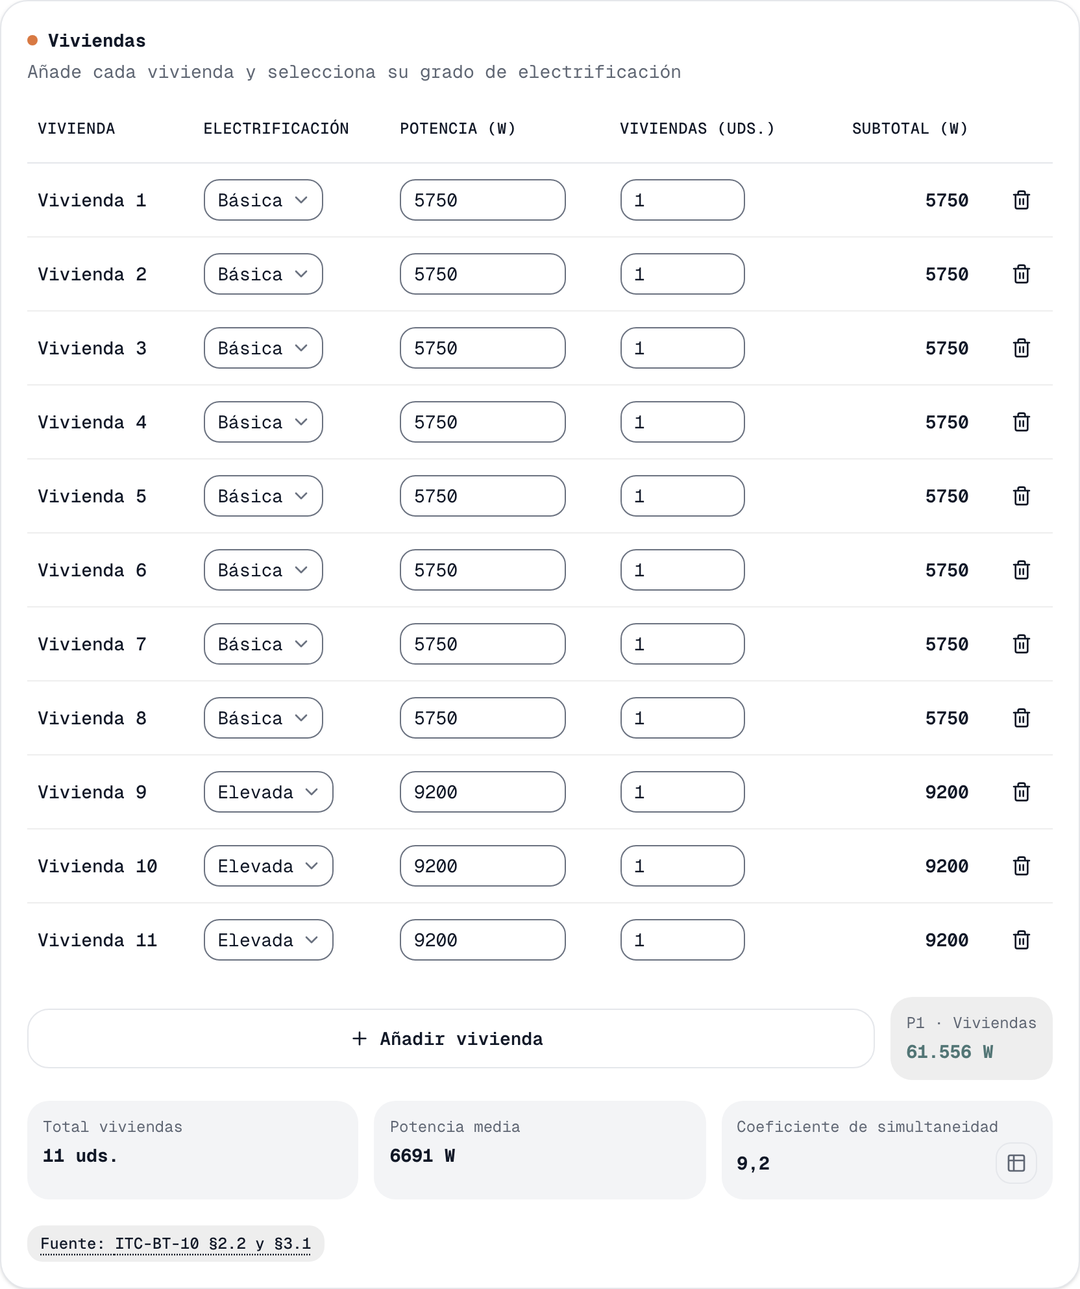
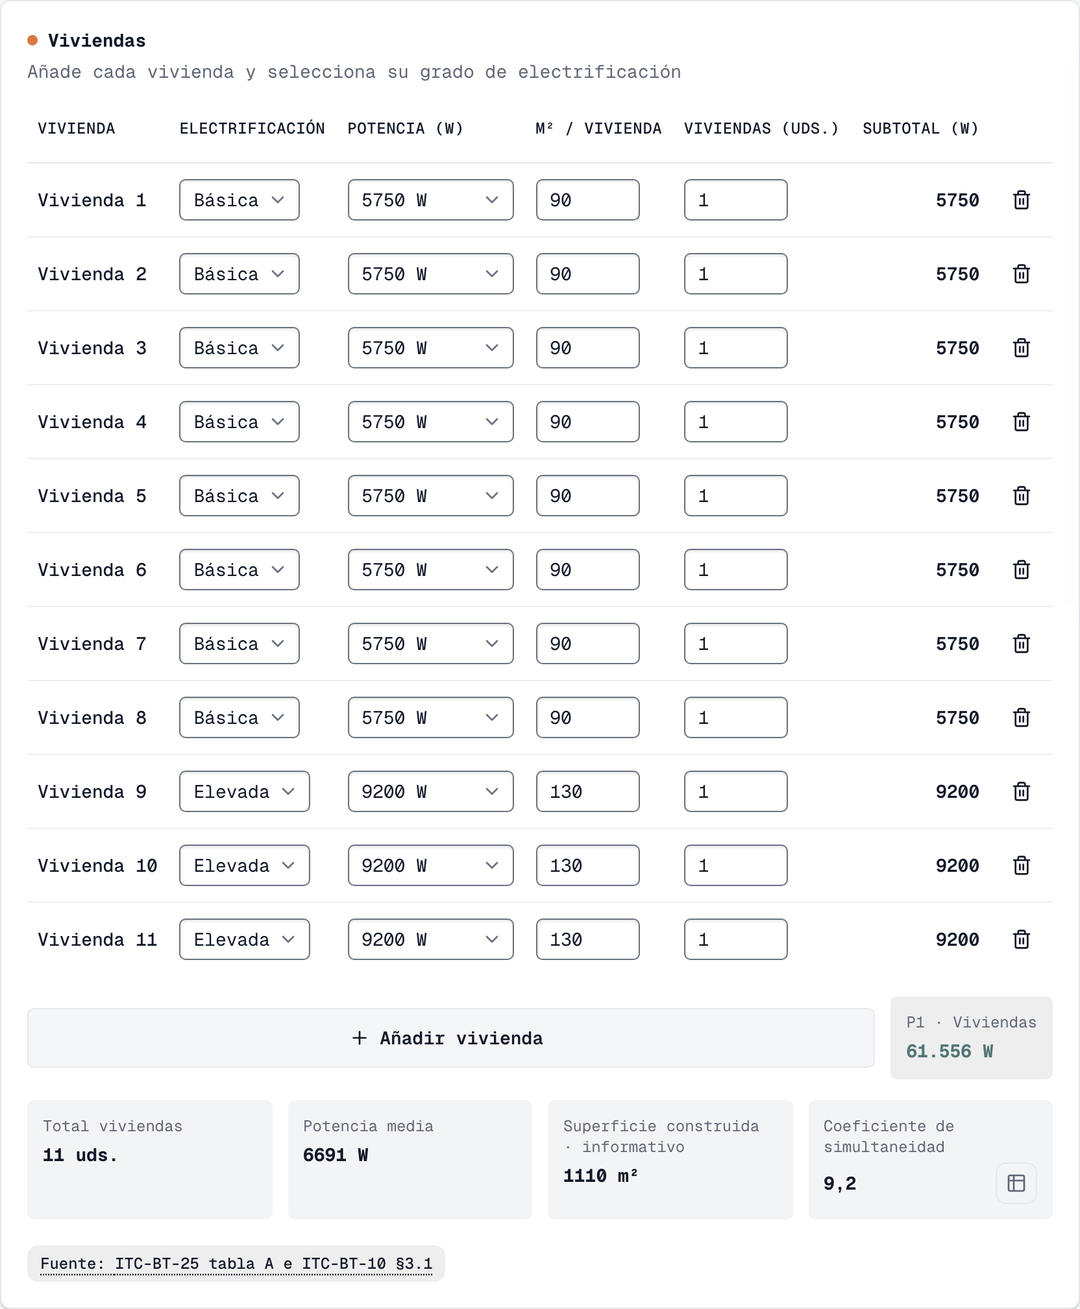
feat(cargas): superficie por vivienda informativa en P1
Cada fila de viviendas registra los m2 de una vivienda de ese tipo, un dato
que no entra en P1 (Pmedia x Cs) y que alimenta la tarjeta de superficie
construida, que multiplica por el numero de viviendas de la fila.

- Columna M2 / Vivienda en la tabla de escritorio y campo en la tarjeta movil.
- Columna Superficie (m2/viv.) en la seccion 1. Viviendas del PDF.
- El snapshot guardado normaliza una superficie ausente o invalida a 0 sin
  descartar el proyecto.
- Nota de fuente, paso didactico, ayuda (captura regenerada) y README.
- La tabla de viviendas ajusta anchos y min-width para seguir entrando con
  la columna nueva.

diff --git a/components/load-calculator.tsx b/components/load-calculator.tsx
@@ -45,7 +45,7 @@ type ProjectInfo = {
   logo: string
 }
 
-type HousingRow = { level: 'Básica' | 'Elevada'; power: number; homes: number }
+type HousingRow = { level: 'Básica' | 'Elevada'; power: number; homes: number; area: number }
 /** A select option: a plain string, or a value with its own printed label. */
 type ChoiceItem = string | { value: string; label: string }
 type LocalRow = { name: string; type: 'Comercial/oficina' | 'Industria'; area: number; real: number }
@@ -141,8 +141,8 @@ const exampleLighting: LightingRow[] = emptyLighting.map(row => (
 ))
 
 const initialHousing: HousingRow[] = [
-  ...Array.from({ length: 8 }, (): HousingRow => ({ level: 'Básica', power: 5750, homes: 1 })),
-  ...Array.from({ length: 3 }, (): HousingRow => ({ level: 'Elevada', power: 9200, homes: 1 })),
+  ...Array.from({ length: 8 }, (): HousingRow => ({ level: 'Básica', power: 5750, homes: 1, area: 90 })),
+  ...Array.from({ length: 3 }, (): HousingRow => ({ level: 'Elevada', power: 9200, homes: 1, area: 130 })),
 ]
 const exampleLocals: LocalRow[] = [
   { name: 'Local 1', type: 'Comercial/oficina', area: 50, real: 0 },
@@ -378,6 +378,8 @@ export function LoadCalculator() {
 
   // Recuento informativo: las plazas de los garajes no intervienen en P4.
   const garageParkingSpaces = garages.reduce((sum, row) => sum + Math.max(0, row.plazas || 0), 0)
+  // Superficie construida informativa: la superficie por vivienda no interviene en P1.
+  const dwellingArea = housing.reduce((sum, row) => sum + Math.max(0, row.area || 0) * Math.max(0, row.homes), 0)
 
   const loadExplanation = useMemo(
     () => explainLoadForecast({ housing, locals, garages, elevators, motors, otherLoads, lighting, parking, irveOption }, result, settings),
@@ -481,8 +483,8 @@ export function LoadCalculator() {
     sections: [
       {
         title: '1. Viviendas',
-        columns: ['Vivienda', 'Electrificación', 'Potencia (W)', 'Unidades', 'Subtotal (W)'],
-        rows: housing.map((row, index) => [`Vivienda ${index + 1}`, row.level, fmt(row.power), row.homes, fmt(row.power * row.homes)]),
+        columns: ['Vivienda', 'Electrificación', 'Potencia (W)', 'Superficie (m²/viv.)', 'Unidades', 'Subtotal (W)'],
+        rows: housing.map((row, index) => [`Vivienda ${index + 1}`, row.level, fmt(row.power), fmt(row.area || 0), row.homes, fmt(row.power * row.homes)]),
       },
       {
         title: '2. Servicios generales',
@@ -873,31 +875,33 @@ export function LoadCalculator() {
                   <div className="grid gap-3">
                     <label><span className="label">Electrificación</span><ChoiceSelect className="w-full" value={row.level} onChange={event => { const level = event as HousingRow['level']; setHousing(current => current.map((house, index) => index === i ? { ...house, level, power: level === 'Básica' ? settings.basicHousingPower : settings.elevatedHousingPower } : house)) }} items={['Básica', 'Elevada']} /></label>
                     <label><span className="label">Potencia (W)</span><ChoiceSelect className="w-full" label={`Potencia (W) · Vivienda ${i + 1}`} value={String(row.power)} onChange={watts => setHousing(current => current.map((house, index) => index === i ? { ...house, power: Number(watts) } : house))} items={housingPowerItems(row.level, row.power)} /></label>
+                    <label><span className="label">Superficie (m²/viv.)</span><Input aria-label="Superficie (m²/viv.)" className="w-full" type="number" min="0" value={row.area || ''} onChange={event => setHousing(current => current.map((house, index) => index === i ? { ...house, area: Number(event.target.value) } : house))} /></label>
                     <label><span className="label">Viviendas (uds.)</span><Input className="w-full" type="number" min="0" value={row.homes} onChange={event => setHousing(current => current.map((house, index) => index === i ? { ...house, homes: Number(event.target.value) } : house))} /></label>
                     <div className="flex items-center justify-between rounded-lg bg-surface-muted px-3 py-2 text-sm"><span className="text-ink-faint">Subtotal</span><strong className="tabular-nums">{fmt(row.power * row.homes)} W</strong></div>
                   </div>
                 </article>)}
               </div>
               <div className="hidden min-w-0 overflow-x-auto md:block">
-                <Table className="w-full min-w-[620px] text-left text-sm">
-                  <TableHeader><TableRow className="border-b border-line text-xs uppercase tracking-wide text-ink-faint"><TableHead scope="col" className="pb-3">Vivienda</TableHead><TableHead scope="col" className="pb-3">Electrificación</TableHead><TableHead scope="col" className="pb-3">Potencia (W)</TableHead><TableHead scope="col" className="pb-3">Viviendas (uds.)</TableHead><TableHead scope="col" className="pb-3 text-right">Subtotal (W)</TableHead><TableHead scope="col" className="pb-3" /></TableRow></TableHeader>
+                <Table className="w-full min-w-[700px] text-left text-sm">
+                  <TableHeader><TableRow className="border-b border-line text-xs uppercase tracking-wide text-ink-faint"><TableHead scope="col" className="pb-3">Vivienda</TableHead><TableHead scope="col" className="pb-3">Electrificación</TableHead><TableHead scope="col" className="pb-3">Potencia (W)</TableHead><TableHead scope="col" className="pb-3">M² / Vivienda</TableHead><TableHead scope="col" className="pb-3">Viviendas (uds.)</TableHead><TableHead scope="col" className="pb-3 text-right">Subtotal (W)</TableHead><TableHead scope="col" className="pb-3" /></TableRow></TableHeader>
                   <TableBody>{housing.map((row, i) => <TableRow key={i} className="border-b border-line-soft">
                     <TableCell className="py-3 font-medium">Vivienda {i + 1}</TableCell>
                     <TableCell className="py-3"><ChoiceSelect label={`Electrificación · Vivienda ${i + 1}`} value={row.level} onChange={event => { const level = event as HousingRow['level']; setHousing(current => current.map((house, index) => index === i ? { ...house, level, power: level === 'Básica' ? settings.basicHousingPower : settings.elevatedHousingPower } : house)) }} items={['Básica', 'Elevada']} /></TableCell>
-                    <TableCell className="py-3"><ChoiceSelect label={`Potencia (W) · Vivienda ${i + 1}`} className="w-36" value={String(row.power)} onChange={watts => setHousing(current => current.map((house, index) => index === i ? { ...house, power: Number(watts) } : house))} items={housingPowerItems(row.level, row.power)} /></TableCell>
-                    <TableCell className="py-3"><Input aria-label={`Viviendas (uds.) · Vivienda ${i + 1}`} className="w-24" type="number" min="0" value={row.homes} onChange={event => setHousing(current => current.map((house, index) => index === i ? { ...house, homes: Number(event.target.value) } : house))} /></TableCell>
+                    <TableCell className="py-3"><ChoiceSelect label={`Potencia (W) · Vivienda ${i + 1}`} className="w-32" value={String(row.power)} onChange={watts => setHousing(current => current.map((house, index) => index === i ? { ...house, power: Number(watts) } : house))} items={housingPowerItems(row.level, row.power)} /></TableCell>
+                    <TableCell className="py-3"><Input aria-label={`Superficie (m²/viv.) · Vivienda ${i + 1}`} className="w-20" type="number" min="0" value={row.area || ''} onChange={event => setHousing(current => current.map((house, index) => index === i ? { ...house, area: Number(event.target.value) } : house))} /></TableCell>
+                    <TableCell className="py-3"><Input aria-label={`Viviendas (uds.) · Vivienda ${i + 1}`} className="w-20" type="number" min="0" value={row.homes} onChange={event => setHousing(current => current.map((house, index) => index === i ? { ...house, homes: Number(event.target.value) } : house))} /></TableCell>
                     <TableCell className="py-3 text-right font-semibold tabular-nums">{fmt(row.power * row.homes)}</TableCell>
                     <TableCell className="py-3 text-right"><Button type="button" variant="ghost" size="icon" aria-label={`Eliminar vivienda ${i + 1}`} onClick={() => setHousing(current => current.filter((_, index) => index !== i))}><Trash2 /></Button></TableCell>
                   </TableRow>)}</TableBody>
                 </Table>
               </div>
               {housing.length === 0 && <p className="py-4 text-center text-sm text-ink-faint">No hay viviendas añadidas.</p>}
-              <div className="mt-4 flex flex-col gap-3 sm:flex-row sm:items-center sm:justify-between"><Button type="button" variant="outline" className="w-full h-auto gap-2 rounded-control px-4 py-3 font-semibold sm:w-auto sm:flex-1" onClick={() => setHousing(current => [...current, { level: 'Básica', power: settings.basicHousingPower, homes: 1 }])}><Plus data-icon="inline-start" /> Añadir vivienda</Button><Metric label="P1 · Viviendas" value={`${fmt(result.p1)} W`} accent /></div>
-            <div className="mt-4 grid gap-3 sm:grid-cols-2 xl:grid-cols-3"><Metric label="Total viviendas" value={`${result.homes} uds.`} /><Metric label="Potencia media" value={`${fmt(result.average)} W`} /><div className="rounded-control bg-surface-muted p-3">
+              <div className="mt-4 flex flex-col gap-3 sm:flex-row sm:items-center sm:justify-between"><Button type="button" variant="outline" className="w-full h-auto gap-2 rounded-control px-4 py-3 font-semibold sm:w-auto sm:flex-1" onClick={() => setHousing(current => [...current, { level: 'Básica', power: settings.basicHousingPower, homes: 1, area: 0 }])}><Plus data-icon="inline-start" /> Añadir vivienda</Button><Metric label="P1 · Viviendas" value={`${fmt(result.p1)} W`} accent /></div>
+            <div className="mt-4 grid gap-3 sm:grid-cols-2 xl:grid-cols-4"><Metric label="Total viviendas" value={`${result.homes} uds.`} /><Metric label="Potencia media" value={`${fmt(result.average)} W`} /><Metric label="Superficie construida · informativo" value={`${fmt(dwellingArea)} m²`} /><div className="rounded-control bg-surface-muted p-3">
               <p className="text-xs text-ink-faint">Coeficiente de simultaneidad</p>
               <div className="mt-1 flex items-center justify-between gap-2"><p className="font-bold tabular-nums">{fmtDec(result.cs)}</p><Button type="button" variant="outline" size="icon" aria-label="Ver tabla del coeficiente de simultaneidad" aria-haspopup="dialog" aria-controls="simultaneity-dialog" className="flex size-8 shrink-0 items-center justify-center rounded-lg border border-line bg-transparent text-ink-faint transition-colors hover:border-brand-mark hover:bg-brand-soft hover:text-brand" onClick={() => setShowSimultaneityTable(true)}><Table2 className="size-4" aria-hidden="true" /></Button></div>
             </div></div>
-            {settings.showSourceNotes && <SourceNote label="ITC-BT-25 tabla A e ITC-BT-10 §3.1">ITC-BT-25 tabla A (escalones de 5.750 y 7.360 W en electrificación básica; 9.200, 11.500 y 14.490 W en elevada) e ITC-BT-10 §3.1, que aplica la tabla 1 de coeficientes de simultaneidad sobre la potencia media por vivienda. <BoeLink href={BOE_REBT} label="RD 842/2002 · BOE-A-2002-18099" /></SourceNote>}
+            {settings.showSourceNotes && <SourceNote label="ITC-BT-25 tabla A e ITC-BT-10 §3.1">ITC-BT-25 tabla A (escalones de 5.750 y 7.360 W en electrificación básica; 9.200, 11.500 y 14.490 W en elevada) e ITC-BT-10 §3.1, que aplica la tabla 1 de coeficientes de simultaneidad sobre la potencia media por vivienda. La superficie por vivienda es un dato informativo: no interviene en P1. <BoeLink href={BOE_REBT} label="RD 842/2002 · BOE-A-2002-18099" /></SourceNote>}
             </section>
             <section className="rounded-card border border-line bg-paper p-5 shadow-card"><SectionTitle title="Servicios generales" subtitle="Ascensores, motores, otras cargas y alumbrado de zonas comunes" /><div className="flex flex-col gap-4"><ServiceTable title="Ascensores" addLabel="Añadir ascensor" onAdd={() => setElevators(es => [...es, { name: `Ascensor ${es.length + 1}`, ita: 'ITA-1', power: itaPowerW('ITA-1'), unit: 'W' }])} headers={['Descripción', 'ITA', 'Potencia ITA', 'Potencia real', 'Unidad', '']} rows={elevators.map((row, i) => [<Input key="name" aria-label={`Descripción · Ascensor ${i + 1}`} className="w-32" value={row.name} onChange={e => setElevators(es => es.map((x, j) => j === i ? { ...x, name: e.target.value } : x))} />, <div key="ita-group" className="flex items-center gap-1"><ChoiceSelect key="ita" label={`Tipo ITA · ${row.name}`} value={row.ita} onChange={value => setElevators(es => es.map((x, j) => j === i ? { ...x, ita: value as ElevatorRow['ita'], power: itaPowerW(value as ElevatorRow['ita']), unit: 'W' } : x))} items={['ITA-1', 'ITA-2', 'ITA-3', 'ITA-4', 'ITA-5', 'ITA-6']} /><Button key="ita-info" type="button" variant="outline" size="icon" className="flex size-8 items-center justify-center rounded-lg border border-line bg-transparent text-ink-faint transition-colors hover:border-brand-mark hover:bg-brand-soft hover:text-brand-strong" aria-label="Ver tabla de tipos ITA" onClick={() => setShowItaTable(true)}><Table2 className="size-4" /></Button></div>, <span key="ita-power" className="tabular-nums text-sm">{fmtDec(itaPowerW(row.ita) / 1000)} kW</span>, <Input key="power" aria-label={`Potencia real · ${row.name}`} className="w-24" type="number" min="0" value={row.power || ''} onChange={e => setElevators(es => es.map((x, j) => j === i ? { ...x, power: Number(e.target.value) } : x))} />, <ChoiceSelect key="unit" label={`Unidad · ${row.name}`} value={row.unit} onChange={e => setElevators(es => es.map((x, j) => j === i ? { ...x, unit: e as ElevatorRow['unit'] } : x))} items={['W', 'CV']} />, <Button key="remove" type="button" variant="ghost" size="icon" aria-label={`Eliminar ${row.name}`} onClick={() => setElevators(es => es.filter((_, j) => j !== i))}><Trash2 /></Button>])} /><ServiceTable title="Motores" addLabel="Añadir motor" onAdd={() => setMotors(ms => [...ms, { name: `Motor ${ms.length + 1}`, power: 0, unit: 'W' }])} headers={['Descripción', 'Potencia', 'Unidad', '']} rows={motors.map((row, i) => [<Input key="name" aria-label={`Descripción · Motor ${i + 1}`} className="w-36" value={row.name} onChange={e => setMotors(ms => ms.map((x, j) => j === i ? { ...x, name: e.target.value } : x))} />, <Input key="power" aria-label={`Potencia · ${row.name}`} className="w-24" type="number" min="0" value={row.power || ''} onChange={e => setMotors(ms => ms.map((x, j) => j === i ? { ...x, power: Number(e.target.value) } : x))} />, <ChoiceSelect key="unit" label={`Unidad · ${row.name}`} value={row.unit} onChange={e => setMotors(ms => ms.map((x, j) => j === i ? { ...x, unit: e as MotorRow['unit'] } : x))} items={['W', 'CV']} />, <Button key="remove" type="button" variant="ghost" size="icon" aria-label={`Eliminar ${row.name}`} onClick={() => setMotors(ms => ms.filter((_, j) => j !== i))}><Trash2 /></Button>])} /><ServiceTable title="Otras cargas" addLabel="Añadir carga" onAdd={() => setOtherLoads(ls => [...ls, { name: `Carga ${ls.length + 1}`, power: 0 }])} headers={['Descripción', 'Potencia (W)', '']} rows={otherLoads.map((row, i) => [<Input key="name" aria-label={`Descripción · Carga ${i + 1}`} className="w-44" value={row.name} onChange={e => setOtherLoads(ls => ls.map((x, j) => j === i ? { ...x, name: e.target.value } : x))} />, <Input key="power" aria-label={`Potencia · ${row.name}`} className="w-28" type="number" min="0" value={row.power || ''} onChange={e => setOtherLoads(ls => ls.map((x, j) => j === i ? { ...x, power: Number(e.target.value) } : x))} />, <Button key="remove" type="button" variant="ghost" size="icon" aria-label={`Eliminar ${row.name}`} onClick={() => setOtherLoads(ls => ls.filter((_, j) => j !== i))}><Trash2 /></Button>])} /><LightingTable rows={lighting} settings={settings} onChange={setLighting} /></div><Metric label="P2 · Servicios generales" value={`${fmt(result.p2)} W`} accent /><p className="mt-4 flex items-start gap-2 rounded-lg bg-brand-soft p-3 text-xs leading-5 text-brand-ink"><Info data-icon="inline-start" /> ITA permite distinguir la potencia del ascensor. Coeficientes actuales: ascensores ×{fmtDec(settings.elevatorCoefficient)}, motor de mayor potencia ×{fmtDec(settings.motorCoefficient)} y lámparas de descarga ×{fmtDec(settings.dischargeLampCoefficient)}. Motores y otras cargas se suman a valor nominal; el incremento del motor mayor es {fmt(result.motorIncrement)} W. Conversión para potencias expresadas en CV: {fmtDec(settings.cvToWatts)} W/CV. Los cambios en Parámetros de cálculo se aplican automáticamente a P2.</p>{settings.showSourceNotes && <SourceNote label="ITC-BT-10 §3.2">ITC-BT-10 §3.2: los servicios generales se suman sin factor de reducción por simultaneidad (CS = 1). La instrucción no fija coeficientes de mayoración: el 1,3 de ascensores, el 25 % del motor mayor y el 1,8 de lámparas de descarga son criterios de proyecto, editables en Parámetros de cálculo. <BoeLink href={BOE_REBT} label="RD 842/2002 · BOE-A-2002-18099" /></SourceNote>}</section>
             <section className="rounded-card border border-line bg-paper p-5 shadow-card"><SectionTitle title="Locales, oficinas e industrias" subtitle="Comercial/oficina o industria: se toma el mayor valor entre previsión real, superficie y mínimo por abonado" /><EditableTable headers={['Descripción', 'Tipo', 'Superficie (m²)', 'Previsión real (W)', 'P prevista (W)', '']} rows={locals.map((row, i) => [row.name, <ChoiceSelect key="type" label={`Tipo · ${row.name}`} value={row.type} onChange={value => setLocals(ls => ls.map((x, j) => j === i ? { ...x, type: value as LocalRow['type'] } : x))} items={['Comercial/oficina', 'Industria']} />, <Input key="a" aria-label={`Superficie (m²) · ${row.name}`} className="w-24" type="number" min="0" value={row.area || ''} onChange={e => setLocals(ls => ls.map((x, j) => j === i ? { ...x, area: Number(e.target.value) } : x))} />, <Input key="b" aria-label={`Previsión real (W) · ${row.name}`} className="w-28" type="number" min="0" value={row.real || ''} onChange={e => setLocals(ls => ls.map((x, j) => j === i ? { ...x, real: Number(e.target.value) } : x))} />, <strong key="c" className="tabular-nums">{fmt(previewLocalPower(row, settings))}</strong>, <Button key="d" type="button" variant="ghost" size="icon" aria-label={`Eliminar ${row.name}`} onClick={() => setLocals(ls => ls.filter((_, j) => j !== i))}><Trash2 data-icon="inline-start" /></Button>])} />{locals.length === 0 && <p className="py-4 text-center text-sm text-ink-faint">No hay locales añadidos.</p>}<div className="mt-4 flex flex-col gap-3 sm:flex-row sm:items-center sm:justify-between"><Button type="button" variant="outline" className="w-full h-auto gap-2 rounded-control px-4 py-3 font-semibold sm:w-auto sm:flex-1" onClick={() => setLocals(ls => [...ls, { name: `Local ${ls.length + 1}`, type: 'Comercial/oficina', area: 0, real: 0 }])}><Plus data-icon="inline-start" /> Añadir local</Button><Metric label="P3 · Locales y oficinas" value={`${fmt(result.p3)} W`} accent /></div>{settings.showSourceNotes && <SourceNote label="ITC-BT-10 §3.3 y §4.2">ITC-BT-10 §3.3 para locales comerciales y oficinas (100 W/m² y planta, mínimo 3.450 W por local) y §4.2 «Edificios destinados a concentración de industrias» (125 W/m² y planta, mínimo 10.350 W), ambos con CS = 1. <BoeLink href={BOE_REBT} label="RD 842/2002 · BOE-A-2002-18099" /></SourceNote>}</section>

diff --git a/components/help-doc.tsx b/components/help-doc.tsx
@@ -209,7 +209,7 @@ export function HelpDoc() {
                 <DataTable
                   head={['Bloque', 'Qué incluye', 'Simultaneidad']}
                   rows={[
-                    ['P1 · Viviendas', 'Una fila por tipo de vivienda, con su grado de electrificación', 'Coeficiente según el número de viviendas (ITC-BT-10 §2.2)'],
+                    ['P1 · Viviendas', 'Una fila por tipo de vivienda, con su grado de electrificación y la superficie por vivienda (informativa)', 'Coeficiente según el número de viviendas (ITC-BT-10 §2.2)'],
                     ['P2 · Servicios generales', 'Ascensores, motores, otras cargas y alumbrado de zonas comunes', '1, más el 25 % del motor más grande'],
                     ['P3 · Locales, oficinas e industrias', 'Superficie, previsión real declarada o mínimo por abonado', '1'],
                     ['P4 · Garajes', 'Superficie, tipo de ventilación y plazas (informativas)', '1'],
@@ -223,16 +223,17 @@ export function HelpDoc() {
 
               <Section id="p1" title="P1 · Viviendas">
                 <p>
-                  La tabla de viviendas es la base de todo el edificio. Cada fila tiene cuatro campos: la descripción, el grado de electrificación, la potencia y el número de viviendas de ese tipo.
+                  La tabla de viviendas es la base de todo el edificio. Cada fila tiene cinco campos: la descripción, el grado de electrificación, la potencia, la superficie de cada vivienda y el número de viviendas de ese tipo.
                 </p>
                 <Bullets items={[
                   <><strong>Grado de electrificación y potencia.</strong> La potencia se elige de la tabla A de la ITC-BT-25: <code>Básica</code> admite 5.750 W (25 A) o 7.360 W (32 A), y <code>Elevada</code> 9.200 W (40 A), 11.500 W (50 A) o 14.490 W (63 A).</>,
+                  <><strong>Superficie (m²/viv.).</strong> Los metros cuadrados de una vivienda de ese tipo. Es un dato informativo: no entra en P1, y la tarjeta de superficie construida multiplica por el número de viviendas.</>,
                   <><strong>Viviendas (uds.).</strong> Cuántas viviendas son de ese tipo. El subtotal de la fila es potencia × unidades.</>,
                   <><strong>Coeficiente de simultaneidad.</strong> Se calcula solo, a partir del total de viviendas, y tiene su propia tabla en el botón de la derecha.</>,
                 ]} />
                 <Shot
                   id="viviendas"
-                  alt="Tabla de viviendas con once filas, el grado de electrificación de cada una, su potencia en vatios, las unidades, el subtotal y las tarjetas de total de viviendas, potencia media y coeficiente de simultaneidad"
+                  alt="Tabla de viviendas con once filas, el grado de electrificación de cada una, su potencia en vatios, la superficie por vivienda, las unidades, el subtotal y las tarjetas de total de viviendas, potencia media, superficie construida y coeficiente de simultaneidad"
                   caption="P1 con el edificio de ejemplo: 11 viviendas, potencia media de 6.691 W y coeficiente 9,2, que dan 61.556 W."
                 />
               </Section>

diff --git a/README.md b/README.md
@@ -74,7 +74,7 @@ La previsión se desglosa en cinco bloques (códigos **P1**–**P5**) y suma el 
 
 | Código | Concepto        | Criterio de cálculo                                                                 |
 |:------:|-----------------|-------------------------------------------------------------------------------------|
-| **P1** | Viviendas       | Potencia media por vivienda × **coeficiente de simultaneidad** (según nº de viviendas). |
+| **P1** | Viviendas       | Potencia media por vivienda × **coeficiente de simultaneidad** (según nº de viviendas). Cada fila registra además la **superficie de una vivienda**, un dato informativo que no entra en P1. |
 | **P2** | Servicios generales | Ascensores ×1,3, motores a valor nominal con un incremento del 25 % sobre el mayor, otras cargas a nominal y **alumbrado de zonas comunes** (15/8 W/m² portal y 7/4 W/m² escalera, ×1,8 en lámparas de descarga). |
 | **P3** | Locales y oficinas | Por fila: comercial/oficina (100 W/m², mínimo 3.450 W) o industria (125 W/m², mínimo 10.350 W). Se toma el **mayor** entre previsión real, W/m² y mínimo por abonado. |
 | **P4** | Garajes         | Potencia por superficie según ventilación (**forzada** 20 W/m² o **natural** 10 W/m²), con mínimo de 3.450 W por garaje. Cada fila registra además su **número de plazas**, un dato informativo que no entra en P4. |
@@ -112,6 +112,7 @@ Cada fórmula se implementa una sola vez en `lib/` y la consumen la fila en pant
 - `Pmedia = Σ(potencia_i × n_i) / Σ n_i`
 - `Cs` sale de la tabla de simultaneidad de la ITC-BT-10 para `n ≤ 21`, o de `15,3 + (n − 21) × 0,5` para `n > 21`.
 - `P1 = Pmedia × Cs`
+- Cada fila registra la **superficie de una vivienda** (m²/viv.). Es informativa: no interviene en P1 y solo alimenta la tarjeta de superficie construida, que multiplica por el número de viviendas de la fila.
 
 ### P2 · Servicios generales
 
